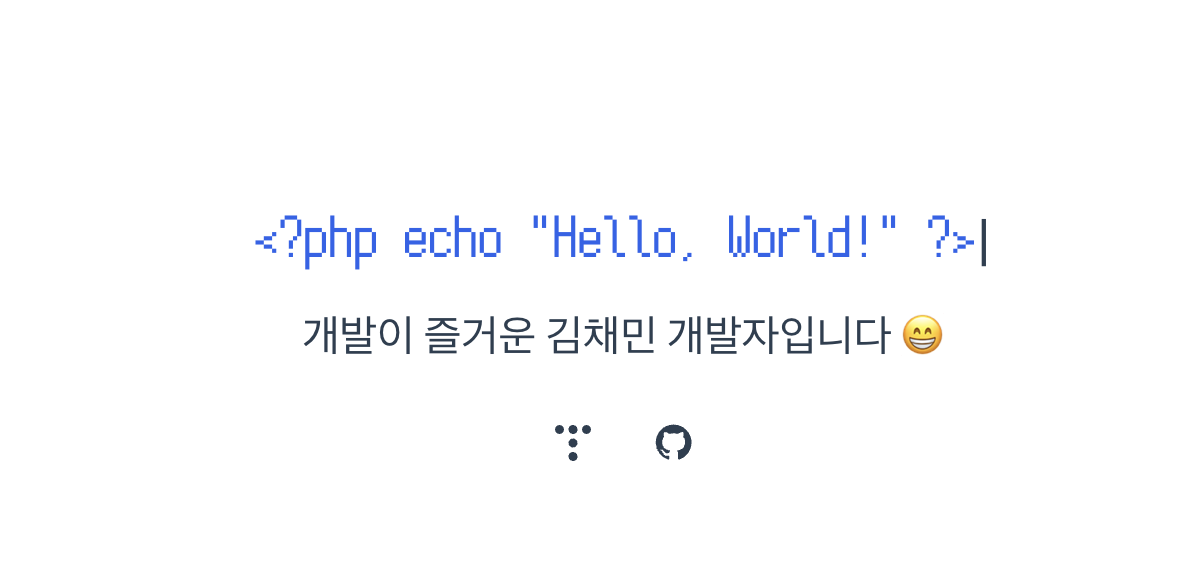
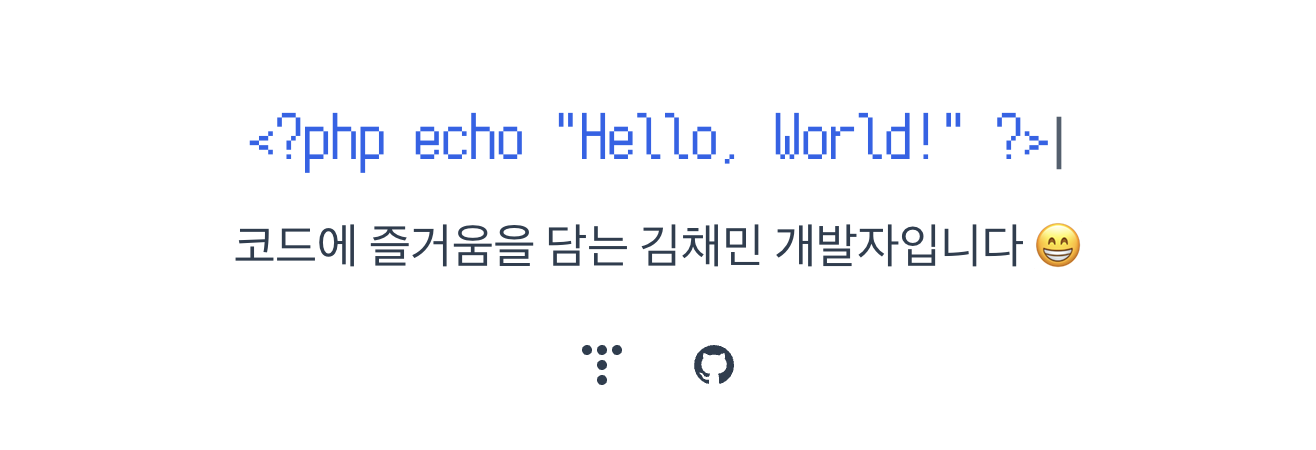
수정 - 웹 접근성, 검색엔진 최적화

diff --git a/src/components/ProjectModal.vue b/src/components/ProjectModal.vue
@@ -7,7 +7,7 @@
             <!-- 모달 컨텐츠 -->
             <div class="relative bg-white dark:bg-gray-800 rounded-lg max-w-4xl w-full mx-4 max-h-[90vh]">
                 <!-- 닫기 버튼 -->
-                <a @click="closeModal"
+                <span @click="closeModal"
                     class="absolute top-0 right-0 m-4 z-10 w-8 h-8 flex items-center justify-center rounded-full bg-white/50 hover:bg-gray-100 dark:bg-gray-800/50 dark:hover:bg-gray-700 transition-all duration-300 transform hover:cursor-pointer border border-gray-200 dark:border-gray-700">
                     <svg xmlns="http://www.w3.org/2000/svg" class="h-5 w-5 text-gray-600 dark:text-gray-300"
                         viewBox="0 0 20 20" fill="currentColor">
@@ -15,7 +15,7 @@
                             d="M4.293 4.293a1 1 0 011.414 0L10 8.586l4.293-4.293a1 1 0 111.414 1.414L11.414 10l4.293 4.293a1 1 0 01-1.414 1.414L10 11.414l-4.293 4.293a1 1 0 01-1.414-1.414L8.586 10 4.293 5.707a1 1 0 010-1.414z"
                             clip-rule="evenodd" />
                     </svg>
-                </a>
+                </span>
                 <div class="overflow-y-auto max-h-[90vh]">
                     <!-- 프로젝트 헤더 -->
                     <div class="p-6 border-b border-gray-200 dark:border-gray-700">
@@ -32,6 +32,7 @@
                                 <!-- 링크 -->
                                 <div class="flex gap-2 mb-4">
                                     <a v-if="project.link" :href="project.link" target="_blank"
+                                        :title="project.title + ' 바로가기'"
                                         class="inline-flex items-center gap-1 px-3 py-2 bg-blue-500 hover:bg-blue-600 text-white rounded-lg transition-all duration-300 transform hover:shadow-lg no-underline">
                                         <svg viewBox="0 0 17 17" xmlns="http://www.w3.org/2000/svg" class="h-5 w-5">
                                             <path
@@ -41,6 +42,7 @@
                                         <span class="text-base">사이트 이동</span>
                                     </a>
                                     <a v-if="project.github" :href="project.github" target="_blank"
+                                        :title="project.title + ' 깃허브 바로가기'"
                                         class="inline-flex items-center gap-1 px-3 py-2 bg-gray-700 hover:bg-gray-600 text-white rounded-lg transition-all duration-300 transform hover:shadow-lg no-underline">
                                         <svg xmlns="http://www.w3.org/2000/svg" class="h-5 w-5" viewBox="0 0 24 24">
                                             <path
@@ -84,6 +86,7 @@
                                 <div class="flex gap-x-2 flex-wrap">
                                     <h4 class="font-semibold">{{ feature.title }}</h4>
                                     <a v-if="feature.link" :href="feature.link" target="_blank"
+                                        :title="feature.title + ' 블로그 포스팅 바로가기'"
                                         class="decoration-dotted underline-offset-4 text-gray-400 dark:text-gray-500">
                                         블로그 포스팅
                                     </a>

diff --git a/public/data/career.js b/public/data/career.js
@@ -17,7 +17,8 @@ export const careerData = [
                     "특정 상품 노출 극대화를 위한 메인 상품 노출 프로세스, 팝업 관리 기능 구현",
                     "메인페이지 로딩 시간 최적화를 위해 Redis 캐싱을 도입하여 평균 로딩 시간을 7.3초에서 2.5초로 대폭 단축"
                 ],
-                "link": "https://www.edupang.com/"
+                "link": "https://www.edupang.com/",
+                "linkTitle": "에듀팡 사이트 바로가기"
             },
             {
                 "title": "AIPEN 사이트 개발",
@@ -28,7 +29,8 @@ export const careerData = [
                     "메인페이지 상품 소개 슬라이드 구현",
                     "게시판 기반 공지사항, FAQ, QnA, 제휴문의 기능 구현"
                 ],
-                "link": "https://www.aipen.co.kr/"
+                "link": "https://www.aipen.co.kr/",
+                "linkTitle": "AIPEN 사이트 바로가기"
             },
             {
                 "title": "나눔커머스 사이트 개발",
@@ -49,7 +51,8 @@ export const careerData = [
                     "카테고리별 교육과정 분류 기능 구현",
                     "교육과정 데이터를 Excel 형식에서 JSON 형식으로 변환하는 Python기반 프로그램 구현"
                 ],
-                "link": "https://www.realteaching.co.kr/"
+                "link": "https://www.realteaching.co.kr/",
+                "linkTitle": "리얼티칭 사이트 바로가기"
             },
             {
                 "title": "스쿨몰 사이트 개발",
@@ -80,7 +83,8 @@ export const careerData = [
                     "총 27개의 팀 프로젝트에 대한 관련 코드 리뷰 및 기술 피드백 제공",
                     "평균 4.8/5점의 멘토 만족도 달성"
                 ],
-                "link": "https://likelion.net/school/kdt-backendj-10th"
+                "link": "https://likelion.net/school/kdt-backendj-10th",
+                "linkTitle": "멋쟁이사자처럼 과정 소개 바로가기"
             }
         ],
         "titleColor": "text-[#FF7710]"
@@ -101,7 +105,8 @@ export const careerData = [
                     "총 30개의 팀 프로젝트에 대한 코드 리뷰 및 프로젝트 아키텍처 검토, 기술 피드백 제공",
                     "98.81/100점의 FT 최종 만족도 달성"
                 ],
-                "link": "https://school.programmers.co.kr/learn/courses/24767/24767-4%EA%B8%B0-k-digital-training-%ED%81%B4%EB%9D%BC%EC%9A%B0%EB%93%9C-%EA%B8%B0%EB%B0%98-%EB%B0%B1%EC%97%94%EB%93%9C-%EC%97%94%EC%A7%80%EB%8B%88%EC%96%B4%EB%A7%81"
+                "link": "https://school.programmers.co.kr/learn/courses/24767/24767-4%EA%B8%B0-k-digital-training-%ED%81%B4%EB%9D%BC%EC%9A%B0%EB%93%9C-%EA%B8%B0%EB%B0%98-%EB%B0%B1%EC%97%94%EB%93%9C-%EC%97%94%EC%A7%80%EB%8B%88%EC%96%B4%EB%A7%81",
+                "linkTitle": "프로그래머스 과정 소개 바로가기"
             }
         ],
         "titleColor": "text-[#3E0499]"

diff --git a/src/components/Project.vue b/src/components/Project.vue
@@ -21,6 +21,7 @@
                             <div class="flex justify-between items-center">
                                 <div class="flex items-center justify-center gap-4">
                                     <a v-if="project.link" :href="project.link" target="_blank"
+                                        :title="project.title + ' 바로가기'"
                                         class="text-blue-500 hover:text-blue-600 dark:text-blue-400 dark:hover:text-blue-300">
                                         <svg viewBox="0 0 17 17" xmlns="http://www.w3.org/2000/svg" class="h-6 w-6">
                                             <path
@@ -29,6 +30,7 @@
                                         </svg>
                                     </a>
                                     <a v-if="project.github" :href="project.github" target="_blank"
+                                        :title="project.title + ' 깃허브 바로가기'"
                                         class="text-gray-600 hover:text-gray-800 dark:text-gray-400 dark:hover:text-gray-200">
                                         <svg xmlns="http://www.w3.org/2000/svg" class="h-8 w-8" viewBox="0 0 24 24">
                                             <path
@@ -37,10 +39,10 @@
                                         </svg>
                                     </a>
                                 </div>
-                                <a @click="openModal(project)"
+                                <span @click="openModal(project)"
                                     class="inline-block px-7 py-2.5 border-2 border-gray-300 dark:border-gray-700 rounded-md bg-gray-50 dark:bg-gray-800 dark:text-gray-100 hover:bg-gray-100 dark:hover:bg-gray-700 hover:border-gray-400 dark:hover:border-gray-500 transition-colors duration-200 cursor-pointer text-base text-center border-solid">
                                     상세 설명
-                                </a>
+                                </span>
                             </div>
                         </div>
                     </div>

diff --git a/src/components/About.vue b/src/components/About.vue
@@ -54,7 +54,7 @@
                                     d="M12.026 2c-5.509 0-9.974 4.465-9.974 9.974c0 4.406 2.857 8.145 6.821 9.465c.499.09.679-.217.679-.481c0-.237-.008-.865-.011-1.696c-2.775.602-3.361-1.338-3.361-1.338c-.452-1.152-1.107-1.459-1.107-1.459c-.905-.619.069-.605.069-.605c1.002.07 1.527 1.028 1.527 1.028c.89 1.524 2.336 1.084 2.902.829c.091-.645.351-1.085.635-1.334c-2.214-.251-4.542-1.107-4.542-4.93c0-1.087.389-1.979 1.024-2.675c-.101-.253-.446-1.268.099-2.64c0 0 .837-.269 2.742 1.021a9.582 9.582 0 0 1 2.496-.336a9.554 9.554 0 0 1 2.496.336c1.906-1.291 2.742-1.021 2.742-1.021c.545 1.372.203 2.387.099 2.64c.64.696 1.024 1.587 1.024 2.675c0 3.833-2.33 4.675-4.552 4.922c.355.308.675.916.675 1.846c0 1.334-.012 2.41-.012 2.737c0 .267.178.577.687.479C19.146 20.115 22 16.379 22 11.974C22 6.465 17.535 2 12.026 2z"
                                     fill="currentColor" />
                             </svg>
-                            <a :href="about.github" target="_blank"
+                            <a :href="about.github" target="_blank" title="개발자 깃허브 바로가기"
                                 class="text-[currentColor] no-underline cursor-pointer">
                                 {{ about.github }}
                             </a>
@@ -64,7 +64,7 @@
                                 <path fill="currentColor"
                                     d="M0 3a3 3 0 1 0 6 0a3 3 0 0 0-6 0m9 18a3 3 0 1 0 6 0a3 3 0 0 0-6 0m0-9a3 3 0 1 0 6 0a3 3 0 0 0-6 0m0-9a3 3 0 1 0 6 0a3 3 0 0 0-6 0m9 0a3 3 0 1 0 6 0a3 3 0 0 0-6 0" />
                             </svg>
-                            <a :href="about.blog" target="_blank"
+                            <a :href="about.blog" target="_blank" title="개발자 블로그 바로가기"
                                 class="text-[currentColor] no-underline cursor-pointer">
                                 {{ about.blog }}
                             </a>

diff --git a/src/components/Home.vue b/src/components/Home.vue
@@ -8,14 +8,14 @@
                 {{ homeData.title }}
             </div>
             <div class="flex justify-center items-center mt-5 w-full">
-                <a :href=homeData.blog target="blank"
+                <a :href=homeData.blog target="blank" title="개발자 블로그 바로가기"
                     class="text-xl mr-2 transition-all duration-500 w-12 h-12 flex justify-center items-center rounded-2xl text-[var(--color-text)] hover:bg-[var(--color-text)] hover:text-[var(--color-background);]">
                     <svg xmlns="http://www.w3.org/2000/svg" width="1em" height="1em" viewBox="0 0 24 24">
                         <path fill="currentColor"
                             d="M0 3a3 3 0 1 0 6 0a3 3 0 0 0-6 0m9 18a3 3 0 1 0 6 0a3 3 0 0 0-6 0m0-9a3 3 0 1 0 6 0a3 3 0 0 0-6 0m0-9a3 3 0 1 0 6 0a3 3 0 0 0-6 0m9 0a3 3 0 1 0 6 0a3 3 0 0 0-6 0" />
                     </svg>
                 </a>
-                <a :href=homeData.github target="blank"
+                <a :href=homeData.github target="blank" title="개발자 깃허브 바로가기"
                     class="text-2xl transition-all duration-500 w-12 h-12 flex justify-center items-center rounded-2xl text-[var(--color-text)] hover:bg-[var(--color-text)] hover:text-[var(--color-background);]">
                     <svg xmlns="http://www.w3.org/2000/svg" width="1em" height="1em" viewBox="0 0 24 24">
                         <path fill-rule="evenodd" clip-rule="evenodd"

diff --git a/src/App.vue b/src/App.vue
@@ -19,10 +19,10 @@
         <nav @mouseenter="showNavbar()" @mouseleave="briefShowNavbar()"
             :class="['w-full fixed bottom-0 flex justify-center bg-white/70 dark:bg-[#181818]/70 h-14 transition-all ease-[ease] duration-500 z-10', { 'opacity-0 pointer-events-none': !isNavbarVisible }]">
             <div class="w-[70%] flex justify-center items-center">
-                <a v-for="(section, index) in sections" :key="index" @click="scrollToSection(index + 1)" :class="['w-40 text-center hover:cursor-pointer hover:text-xl transition-all',
+                <span v-for="(section, index) in sections" :key="index" @click="scrollToSection(index + 1)" :class="['w-40 text-center hover:cursor-pointer hover:text-xl transition-all',
                     currentSection === index + 1 ? 'font-bold' : '']">
                     {{ section }}
-                </a>
+                </span>
             </div>
         </nav>
         <Home ref="Section1" class="container mx-auto" />

diff --git a/index.html b/index.html
@@ -1,11 +1,12 @@
 <!DOCTYPE html>
-<html>
+<html lang="ko" class="dark">
 
 <head>
   <meta charset="UTF-8">
   <link rel="icon" href="/favicon.ico">
-  <title>김채민 개발자 포트폴리오</title>
-  <meta property="og:image" content="https://aleph-kim.netlify.app/image/meta-preview.png">
+  <title>김채민 개발자 포트폴리오 웹사이트</title>
+  <meta property="og:image" content="https://portfolio.aleph.kr/image/meta-preview.png">
+  <meta name="description" content="Hello World! 코드에 즐거움을 담는 김채민 개발자의 포트폴리오입니다.">
   <meta property="og:description" content="Hello World! 코드에 즐거움을 담는 김채민 개발자의 포트폴리오입니다.">
   <meta name="viewport" content="width=device-width, initial-scale=1.0">
 </head>

diff --git a/src/components/JobCard.vue b/src/components/JobCard.vue
@@ -27,7 +27,7 @@
                     <div class="flex items-center">
                         <h3 class="text-blue-700 font-bold text-lg">{{ project.title }}</h3>
                         <!-- 사이트 링크 -->
-                        <a v-if="project.link" :href="project.link" target="_blank"
+                        <a v-if="project.link" :href="project.link" target="_blank" :title="project.linkTitle"
                             class="text-blue-500 hover:underline inline-flex items-center">
                             <svg xmlns="http://www.w3.org/2000/svg" class="h-5 w-5 ml-1" viewBox="0 0 24 24"
                                 fill="currentColor">
